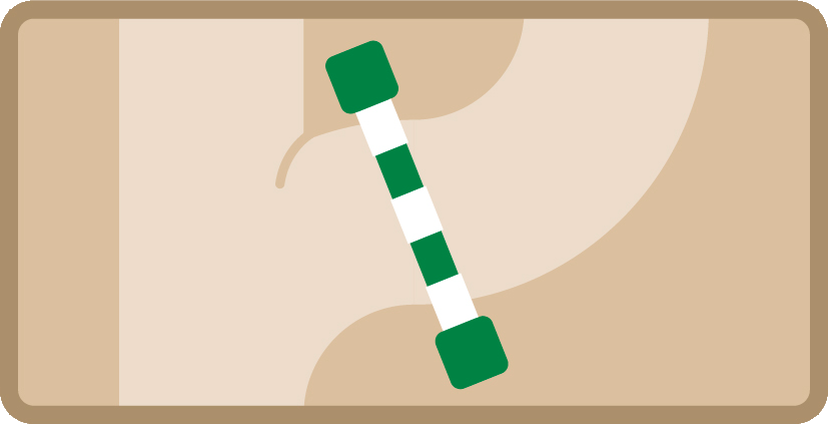
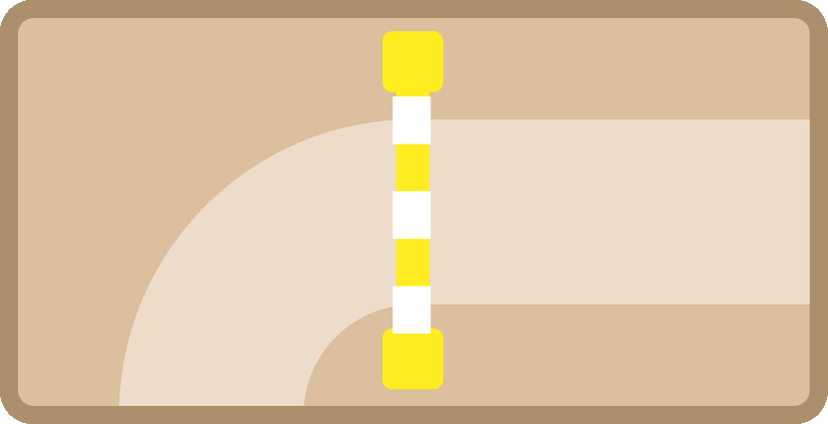
basic html grid working with images on one cell

diff --git a/index.html b/index.html
@@ -1,15 +1,21 @@
 <!DOCTYPE html>
 
 <html>
+
 <head>
-  <title>Horse Academy</title>
+    <title>Horse Academy</title>
 
-  <!-- CSS -->
-  <link href="./css/normalize.css" rel="stylesheet">
-  <link href="./css/style.css" rel="stylesheet">
+    <!-- CSS -->
+    <link href="./css/normalize.css" rel="stylesheet">
+    <link href="./css/style.css" rel="stylesheet">
 
-  <!-- JS -->
-  <script src="./js/script.js" defer></script>
+    <!-- FONT : Inter -->
+    <link rel="preconnect" href="https://fonts.googleapis.com">
+    <link rel="preconnect" href="https://fonts.gstatic.com" crossorigin>
+    <link href="https://fonts.googleapis.com/css2?family=Inter:wght@500;700;900&family=Lato:wght@400;700&display=swap" rel="stylesheet">
+
+    <!-- JS -->
+    <script src="./js/script.js" defer></script>
 </head>
 
 <body>
@@ -19,14 +25,50 @@
     <main>
         <section>
             <div id="board">
-                <div class="tile tile-j rotation-3 x-3 y-1">
-                    <img src="./img/tiles/g.png" alt="">
+                <div id="grid">
+                    <div></div>
+                    <div></div>
+                    <div></div>
+                    <div></div>
+                    <div></div>
+                    <div></div>
+                    <div></div>
+                    <div></div>
+                    <div></div>
+                    <div></div>
+                    <div></div>
+                    <div></div>
+                    <div></div>
+                    <div></div>
+                    <div></div>
+                    <div></div>
+                    <div></div>
+                    <div></div>
+                    <div></div>
+                    <div></div>
+                </div>
+
+                <div id="tiles">
+                    <div class="tile tile-j rotation-3 x-3 y-1">
+                        <img src="./img/tiles/j.png" alt="brown tile">
+                    </div>
+                    <div class="tile tile-g rotation-3 x-4 y-2">
+                        <img src="./img/tiles/g.png" alt="purple tile">
+                    </div>
+                    <div class="tile tile-e rotation-1 x-5 y-1">
+                        <img src="./img/tiles/e.png" alt="yellow tile">
+                    </div>
                 </div>
             </div>
         </section>
     </main>
-    <footer>
-
-    </footer>
+    <!-- <footer>
+        <div>
+            <h1>Licence</h1>
+            <p>Copyright (C) [Evert Devloo, Izzet Poyraz, Kyle Hoeckman, Tommy Baudonck], 2023, All rights reserved</p>
+            <p>Smartgames (R), 2018, https://www.smartgames.eu/uk/terms-use</p>
+        </div>
+    </footer> -->
 </body>
+
 </html>

diff --git a/css/style.css b/css/style.css
@@ -1,30 +1,143 @@
 /* ROOT */
 
+:root {
+    --white: #fff;
+    --black: #000;
+    --bg: var(--white);
+    --primary: var(--black);
+    --accent: #0f8;
+}
+
+@media (prefers-color-scheme: dark) {
+    :root {
+        --bg: var(--black);
+        --primary: var(--white);
+    }
+}
+
+*, *::before, *::after {
+    box-sizing: border-box;
+}
+
+html {
+    background-color: var(--bg);
+    font-family: 'Inter', sans-serif;
+    color: var(--primary);
+}
+
 /* ATOMS */
 
+body {
+    display: flex;
+    flex-direction: column;
+    min-height: 100vw;
+}
+
+p {
+    max-width: 40em;
+}
+
 #board {
-    display: grid;
+    display: block;
+    background-color: #a78562;
+    position: relative;
+    border: 2rem solid #e7d3Bc;
+    border-radius: 1rem;
     width: 50rem;
     height: 40rem;
+    margin: 4rem auto;
 }
 
-#tileE {
-    grid-row-start: 0;
-    grid-row-start: 1;
-    grid-column-start: 5;
-    grid-column-end: 6;
+#board>div {
+    display: grid;
+    grid-template-rows: repeat(4, 25%);
+    grid-template-columns: repeat(5, 20%);
+    border-radius: .2rem;
+    position: absolute;
+    top: .5rem;
+    left: .5rem;
+    width: calc(100% - 1rem);
+    height: calc(100% - 1rem);
 }
 
-#tileG {
-    grid-row-start: 0;
-    grid-row-start: 1;
-    grid-column-start: 4;
-    grid-column-end: 5;
+#board #grid div {
+    background-color: #c1a078;
+    border-radius: .2rem;
+    width: calc(100% - 1rem);
+    height: calc(100% - 1rem);
+    transform: translate(.5rem, .5rem);
 }
 
-#tileJ {
-    grid-row-start: 0;
-    grid-row-start: 1;
+#board #tiles img {
+    max-width: 100%;
+    max-height: 100%;
+}
+
+.x-1 {
+    grid-column-start: 1;
+}
+
+.x-2 {
+    grid-column-start: 2;
+}
+
+.x-3 {
     grid-column-start: 3;
-    grid-column-end: 4;
+}
+
+.x-4 {
+    grid-column-start: 4;
+}
+
+.x-5 {
+    grid-column-start: 5;
+}
+
+.y-1 {
+    grid-row-start: 1 / 4;
+}
+
+.y-2 {
+    grid-row-start: 2;
+}
+
+.y-3 {
+    grid-row-start: 3;
+}
+
+.y-4 {
+    grid-row-start: 4;
+}
+
+.rotation-0 {
+    transform: rotate(0deg);
+}
+
+.rotation-1 {
+    transform: rotate(90deg);
+}
+
+.rotation-2 {
+    transform: rotate(180deg);
+}
+
+.rotation-3 {
+    transform: rotate(-90deg);
+}
+
+/* FOOTER */
+
+footer {
+    margin-top: auto;
+}
+
+footer>div {
+    background-color: var(--black);
+    color: var(--white);
+    margin-top: 2rem;
+    padding: 2rem clamp(2rem, 8vw, 8rem);
+}
+
+footer h1 {
+    width: 100%;
 }

diff --git a/js/script.js b/js/script.js
@@ -1,0 +1,5 @@
+"use strict";
+
+(function() {
+    //
+})();
